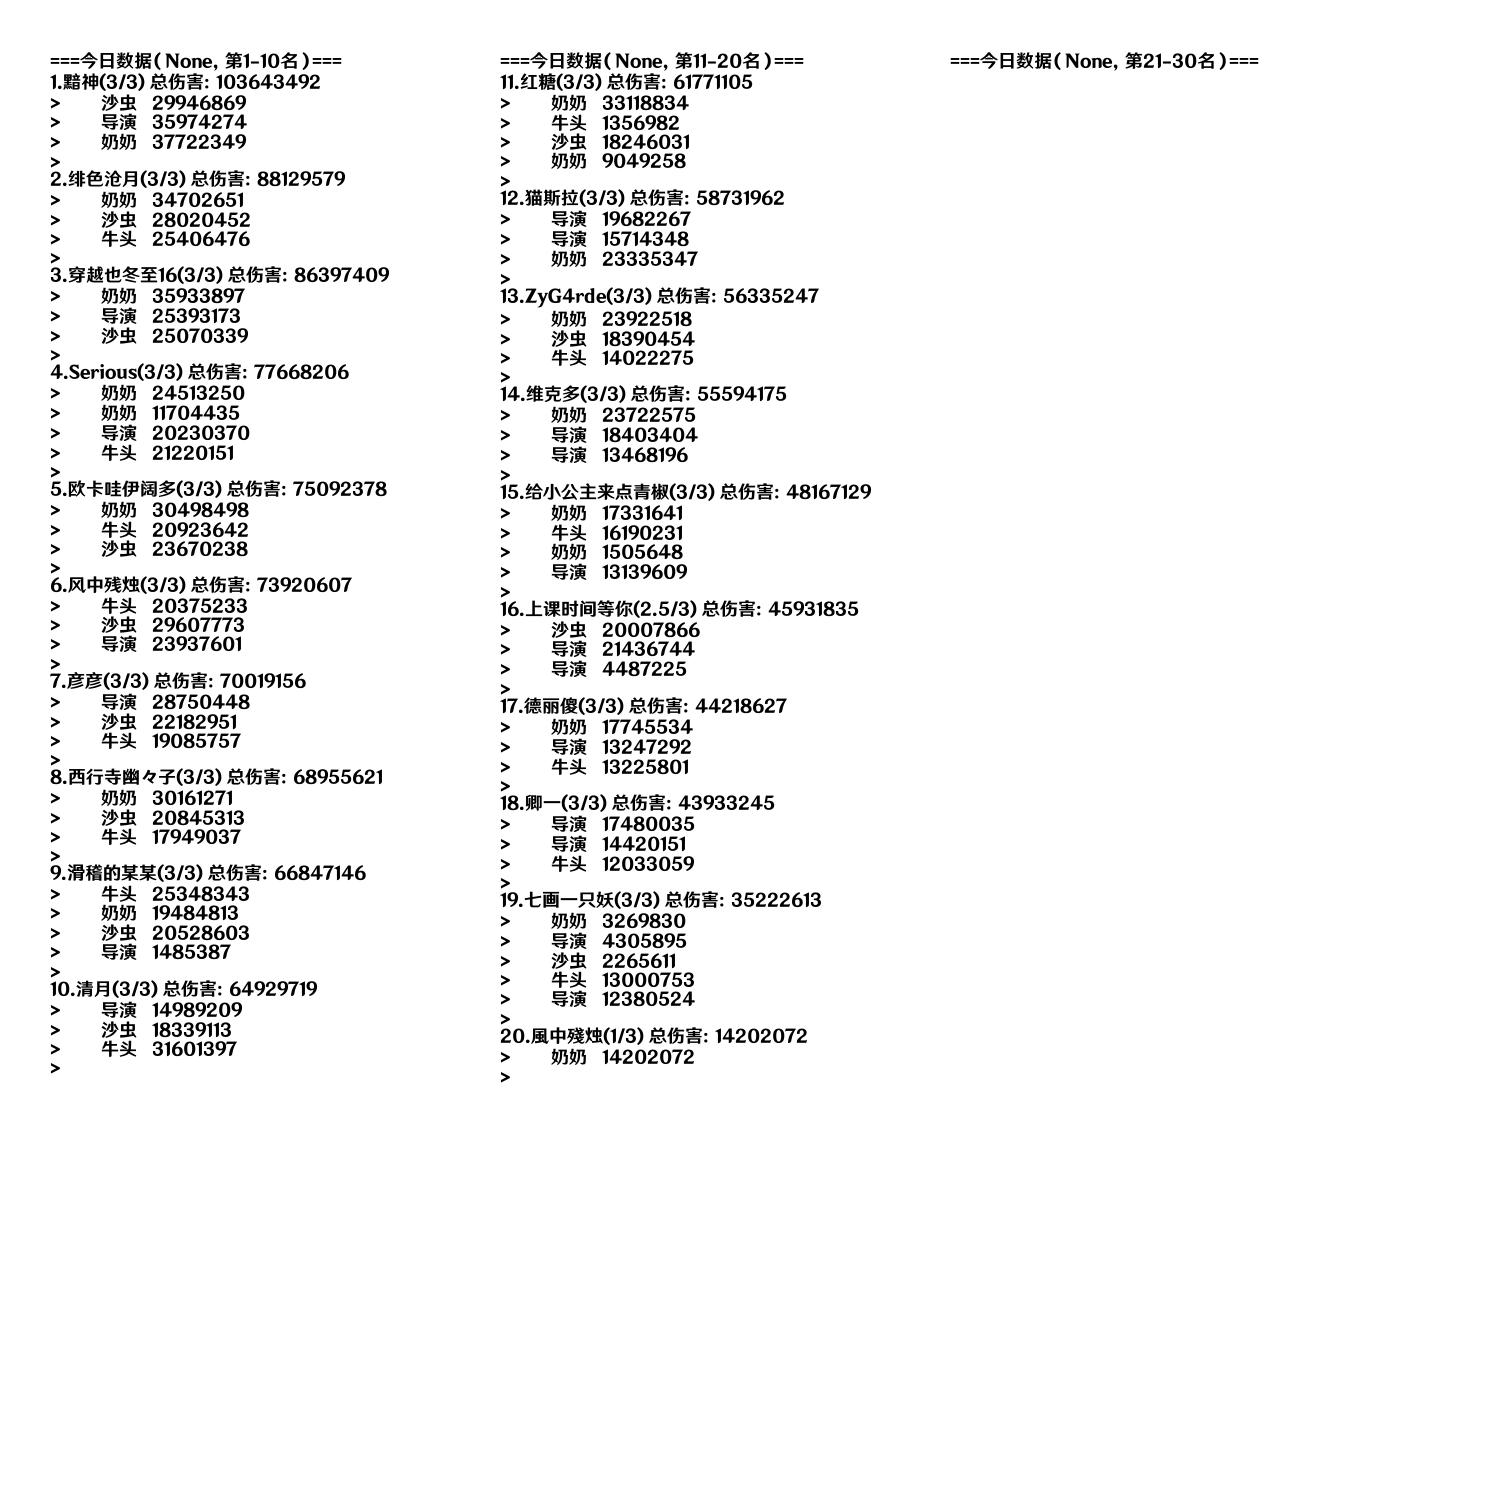
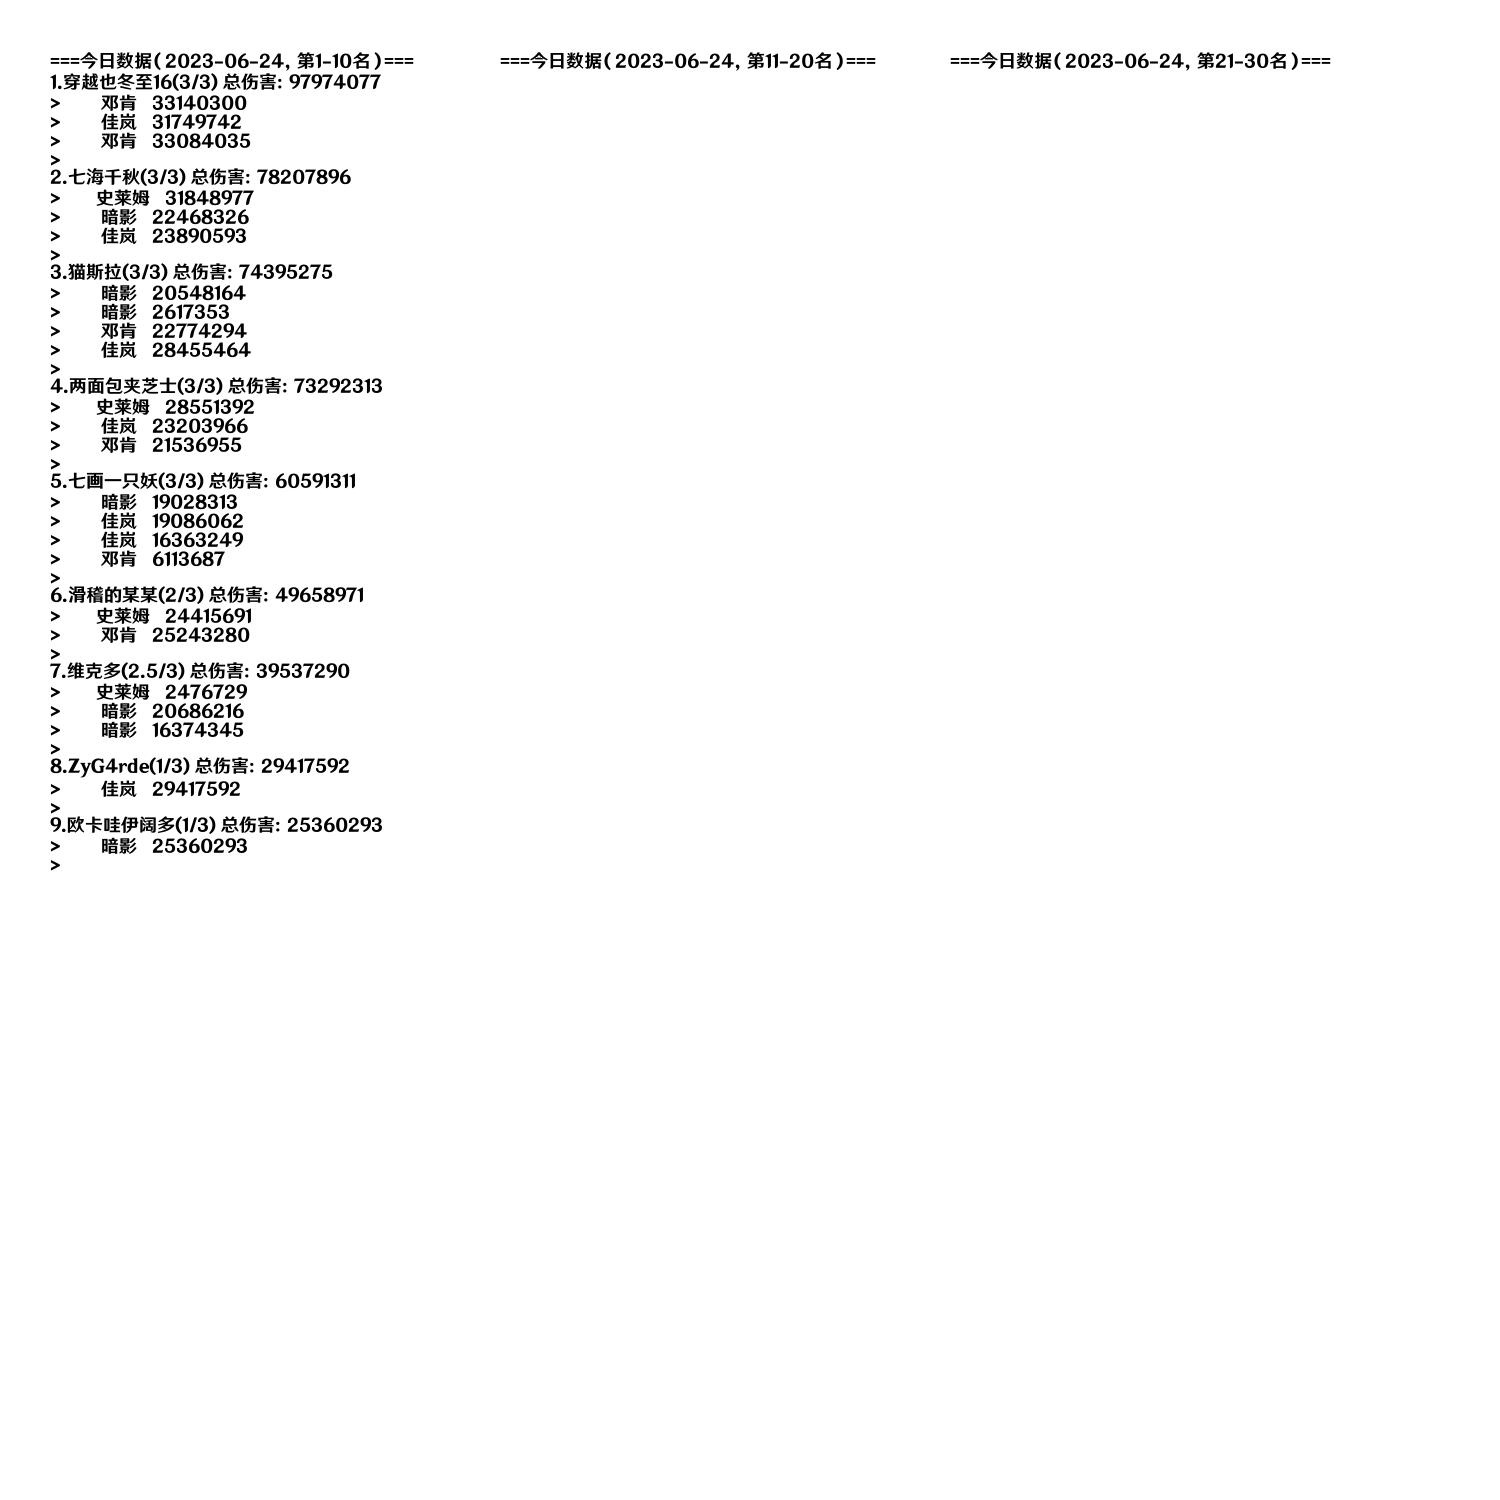
会战工具更新

Changed region(s): [[0.0307, 0.0307, 0.276, 0.7053], [0.3373, 0.0307, 0.5827, 0.7053], [0.7053, 0.0307, 0.8587, 0.0613]]

diff --git a/Twip/function/kgqgj/payload/cookies.py b/Twip/function/kgqgj/payload/cookies.py
@@ -1,9 +1,9 @@
 '''
 Author: 七画一只妖 1157529280@qq.com
-Date: 2023-04-14 23:10:52
+Date: 2023-03-27 14:47:37
 LastEditors: 七画一只妖 1157529280@qq.com
-LastEditTime: 2023-06-02 19:02:37
-FilePath: \QQbot-Twip-v2\Twip\function\kgqgj\payload\cookies.py
+LastEditTime: 2023-06-24 13:12:15
+FilePath: \060坎公骑冠剑会战工具\payload\cookies.py
 Description: 这是默认设置,请设置`customMade`, 打开koroFileHeader查看配置 进行设置: https://github.com/OBKoro1/koro1FileHeader/wiki/%E9%85%8D%E7%BD%AE
 '''
 header = {
@@ -12,7 +12,7 @@ header = {
     "accept-language": f"zh-CN,zh;q=0.9,en;q=0.8,en-GB;q=0.7,en-US;q=0.6",
     "cache-control": "no-cache",
     "connection": f"keep-alive",
-    "cookie": f"buvid3=57D7B9AB-6CEF-0EE8-042E-475E2AEEFA3876955infoc; i-wanna-go-back=-1; _uuid=8D1042742-10610C-F1035-AFA7-107CCFADDCC4C76144infoc; buvid_fp_plain=undefined; nostalgia_conf=-1; blackside_state=0; CURRENT_BLACKGAP=0; hit-dyn-v2=1; LIVE_BUVID=AUTO2916589792625841; fingerprint3=b4c05a603c8a5ae0e2ca874759862233; DedeUserID=178547325; DedeUserID__ckMd5=d90ee02c8bad0cdd; b_ut=5; b_nut=100; buvid4=23F4DCF0-243F-05CD-0C32-458841A6D0A778370-022071818-OsDwyx78W%2ByrNhIDcatWKA%3D%3D; rpdid=|(m~Y|~~|~l0J'uYY)l~uu)l; is-2022-channel=1; CURRENT_FNVAL=4048; header_theme_version=CLOSE; hit-new-style-dyn=1; dy_spec_agreed=1; CURRENT_PID=0507da70-c954-11ed-b885-5544c605f9c2; FEED_LIVE_VERSION=V8; home_feed_column=5; fingerprint=00557b7daceeed7b923dbd4d44060804; SESSDATA=594d0328%2C1701091572%2Cf903b%2A51; bili_jct=956eae9d916c52548d1a3cdefc849df0; session-api=hi4qqpl58vckvb2sobrrqncj1n; user-info=5287646; browser_resolution=1536-754; PVID=1; CURRENT_QUALITY=64; bp_video_offset_178547325=802549763506438100; _csrf=RlGP1rt6DsCwDNBbBVvwjS8g; share_source_origin=QQ; bsource=share_source_qqchat; b_lsid=3F51AAE1_1887BB8767A; sid=75soz2hu; buvid_fp=00557b7daceeed7b923dbd4d44060804",}
+    "cookie": f"buvid3=57D7B9AB-6CEF-0EE8-042E-475E2AEEFA3876955infoc; i-wanna-go-back=-1; _uuid=8D1042742-10610C-F1035-AFA7-107CCFADDCC4C76144infoc; buvid_fp_plain=undefined; nostalgia_conf=-1; CURRENT_BLACKGAP=0; blackside_state=0; hit-dyn-v2=1; LIVE_BUVID=AUTO2916589792625841; fingerprint3=b4c05a603c8a5ae0e2ca874759862233; DedeUserID=178547325; DedeUserID__ckMd5=d90ee02c8bad0cdd; b_ut=5; b_nut=100; buvid4=23F4DCF0-243F-05CD-0C32-458841A6D0A778370-022071818-OsDwyx78W%2ByrNhIDcatWKA%3D%3D; rpdid=|(m~Y|~~|~l0J'uYY)l~uu)l; is-2022-channel=1; CURRENT_FNVAL=4048; header_theme_version=CLOSE; hit-new-style-dyn=1; dy_spec_agreed=1; CURRENT_PID=0507da70-c954-11ed-b885-5544c605f9c2; home_feed_column=5; browser_resolution=1536-754; FEED_LIVE_VERSION=V8; CURRENT_QUALITY=80; fingerprint=4395a1da923c2235156efb5c4acfb921; PVID=1; SESSDATA=2701386e%2C1703082012%2C68daa%2A61BDRDe0QFQqQBxSlvcz-MaXFvjFiVYXgLgDtmTAEL6K-C-1O1sa62wM0SNXOwWoKphHEVRQAAGQA; bili_jct=658b7477ccff82d1d6b0ba286fb70e4c; buvid_fp=4395a1da923c2235156efb5c4acfb921; bp_video_offset_178547325=810620106098868400; _dfcaptcha=eabf756761077a64fcc8d506c3bdc91c",}
 
 
 header2 = {
@@ -22,3 +22,6 @@ header2 = {
     "connection": "keep-alive",
     "cookie": f"""buvid3=57D7B9AB-6CEF-0EE8-042E-475E2AEEFA3876955infoc; i-wanna-go-back=-1; _uuid=8D1042742-10610C-F1035-AFA7-107CCFADDCC4C76144infoc; buvid_fp_plain=undefined; nostalgia_conf=-1; blackside_state=0; CURRENT_BLACKGAP=0; hit-dyn-v2=1; LIVE_BUVID=AUTO2916589792625841; fingerprint3=b4c05a603c8a5ae0e2ca874759862233; DedeUserID=178547325; DedeUserID__ckMd5=d90ee02c8bad0cdd; b_ut=5; b_nut=100; buvid4=23F4DCF0-243F-05CD-0C32-458841A6D0A778370-022071818-OsDwyx78W%2ByrNhIDcatWKA%3D%3D; rpdid=|(m~Y|~~|~l0J'uYY)l~uu)l; is-2022-channel=1; CURRENT_FNVAL=4048; header_theme_version=CLOSE; hit-new-style-dyn=1; dy_spec_agreed=1; CURRENT_PID=0507da70-c954-11ed-b885-5544c605f9c2; FEED_LIVE_VERSION=V8; home_feed_column=5; fingerprint=00557b7daceeed7b923dbd4d44060804; SESSDATA=594d0328%2C1701091572%2Cf903b%2A51; bili_jct=956eae9d916c52548d1a3cdefc849df0; session-api=hi4qqpl58vckvb2sobrrqncj1n; user-info=5287646; browser_resolution=1536-754; PVID=1; CURRENT_QUALITY=64; bp_video_offset_178547325=802549763506438100; _csrf=RlGP1rt6DsCwDNBbBVvwjS8g; share_source_origin=QQ; bsource=share_source_qqchat; b_lsid=3F51AAE1_1887BB8767A; sid=75soz2hu; buvid_fp=00557b7daceeed7b923dbd4d44060804""",
 }
+
+
+APP_KEY = "a5e793dd8b8e425c9bff92ed79e4458f"

diff --git a/Twip/function/kgqgj/payload/function.py b/Twip/function/kgqgj/payload/function.py
@@ -2,7 +2,7 @@
 Author: 七画一只妖 1157529280@qq.com
 Date: 2023-03-27 09:05:56
 LastEditors: 七画一只妖 1157529280@qq.com
-LastEditTime: 2023-04-21 17:15:21
+LastEditTime: 2023-06-24 13:10:01
 FilePath: \060坎公骑冠剑会战工具\function.py
 Description: 这是默认设置,请设置`customMade`, 打开koroFileHeader查看配置 进行设置: https://github.com/OBKoro1/koro1FileHeader/wiki/%E9%85%8D%E7%BD%AE
 '''
@@ -12,16 +12,20 @@ import requests
 import httpx
 
 from .setting import DAMAGE_URL, RATE_URL, DAO_IMAGE, DAO_DAILY, DAMAGE_TOTAL
-from .cookies import header, header2
+from .cookies import header, header2, APP_KEY
 from .utils.data_utils import save_data
 
 BASE_PATH: str = Path(__file__).absolute().parents[0]
 
 
 async def f_get_user_data(date:str) -> dict:
+
+    url = f"""
+https://api.game.bilibili.com/game/player/tools/kan_gong/fight_report?ts=1687582295973&nonce=f1e7b034-d50e-40fe-af1f-00af9fc212f2&appkey={APP_KEY}&sign=e3bca73d6c554cdb51a9ed05e5431497"""
+
     try:
         async with httpx.AsyncClient(timeout=None) as client:
-            r = await client.get(url=DAMAGE_URL + date, headers=header)
+            r = await client.get(url=url + date, headers=header)
             re_data: dict = r.json()
             save_data(f"{BASE_PATH}\\data\\user_data.json", re_data)
             data = re_data["data"]
@@ -33,12 +37,15 @@ async def f_get_user_data(date:str) -> dict:
 
 
 async def f_get_damage_data(date:str):
+    url = f"""https://api.game.bilibili.com/game/player/tools/kan_gong/fight_report?ts=1687582295973&nonce=f1e7b034-d50e-40fe-af1f-00af9fc212f2&appkey={APP_KEY}&sign=e3bca73d6c554cdb51a9ed05e5431497"""
+
+    url2 = f"""https://api.game.bilibili.com/game/player/tools/kan_gong/fight_report?date={date}&ts=1687582528332&nonce=c05a9707-f5ee-42fc-87b5-3e4db005fb70&appkey={APP_KEY}&sign=7664f1d3cdb1316bcf123e3894efeee2"""
     try:
         async with httpx.AsyncClient(timeout=None) as client:
             if date:
-                r = await client.get(url=DAMAGE_URL + date, headers=header)
+                r = await client.get(url=url2, headers=header)
             else:
-                r = await client.get(url=DAMAGE_URL, headers=header)
+                r = await client.get(url=url, headers=header)
             re_data: dict = r.json()
             save_data(f"{BASE_PATH}\\data\\damage_data.json", re_data)
             data = re_data["data"]
@@ -50,9 +57,10 @@ async def f_get_damage_data(date:str):
 
 
 async def f_get_rate_data():
+    url = f"""https://api.game.bilibili.com/game/player/tools/kan_gong/fight_news?ts=1687583171294&nonce=286263db-9437-493f-bc4f-25ec6b1326ee&appkey={APP_KEY}&sign=73bb681870500d80828ec38ebf751bbc"""
     try:
         async with httpx.AsyncClient(timeout=None) as client:
-            r = await client.get(url=RATE_URL, headers=header)
+            r = await client.get(url=url, headers=header)
             re_data: dict = r.json()
             data = re_data["data"]
             return data

diff --git a/Twip/function/kgqgj/payload/utils/data_utils.py b/Twip/function/kgqgj/payload/utils/data_utils.py
@@ -2,7 +2,7 @@
 Author: 七画一只妖 1157529280@qq.com
 Date: 2023-03-27 09:55:54
 LastEditors: 七画一只妖 1157529280@qq.com
-LastEditTime: 2023-06-02 19:01:55
+LastEditTime: 2023-06-24 13:09:44
 '''
 import json
 
@@ -18,7 +18,7 @@ def save_data(path: str, data: dict) -> None:
 
 
 def data_format(data):
-    for item in data:
+    for item in data["info"]:
         for d_item in item["damage_list"]:
             d_item["boss_name"] = _data_format(d_item["boss_name"])
     return data
@@ -26,27 +26,28 @@ def data_format(data):
 
 def _data_format(name):
     data = {
-        "恶魔首领": "恶魔",
-        "暗影魔王": "暗影",
-        "boss_harvester_guild_fury": "蚊子",
-        "boss_graboid_guild_fury": "沙虫",
-        "boss_nine_tailed_fox_guild": "佳岚",
-        "boss_robot_knight_new_guild": "大锤",
-        "boss_minister_guild": "邓肯",
-        "雪人将军盖斯特": "雪人",
-        "九尾狐佳岚": "佳岚",
-        "宰相邓肯": "邓肯",
-        "帝国骑士": "骑士",
-        "雪人将军盖斯特": "雪人",
-        "妖精": "妖精",
-        "春秋派首领": "春秋",
-        "哥布林族长": "族长",
-        "侵略军司令官": "司令",
-        "boss_mech_guild_fury_43th": "熊猫",
-        "boss_admiral_guild_43th_modified": "船长",
-        "boss_portrait_guild_43th": "画像",
-        "boss_invader_director_guild": "导演",
-        "机械人艾瑞娜": "奶奶",
-        "愤怒的牛头人": "牛头"
+        "恶魔首领":"恶魔",
+        "暗影魔王":"暗影",
+        "boss_harvester_guild_fury":"蚊子",
+        "boss_graboid_guild_fury":"沙虫",
+        "boss_nine_tailed_fox_guild":"佳岚",
+        "boss_robot_knight_new_guild":"大锤",
+        "boss_minister_guild":"邓肯",
+        "雪人将军盖斯特":"雪人",
+        "九尾狐佳岚":"佳岚",
+        "宰相邓肯":"邓肯",
+        "帝国骑士":"骑士",
+        "雪人将军盖斯特":"雪人",
+        "妖精":"妖精",
+        "春秋派首领":"春秋",
+        "哥布林族长":"族长",
+        "侵略军司令官":"司令",
+        "boss_mech_guild_fury_43th":"熊猫",
+        "boss_admiral_guild_43th_modified":"船长",
+        "boss_portrait_guild_43th":"画像",
+        "boss_invader_director_guild":"导演",
+        "机械人艾瑞娜":"奶奶",
+        "愤怒的牛头人":"牛头",
+        "熔岩史莱姆国王":"史莱姆"
     }
     return data[name]

diff --git a/Twip/function/kgqgj/payload/dao.py b/Twip/function/kgqgj/payload/dao.py
@@ -2,7 +2,7 @@
 Author: 七画一只妖 1157529280@qq.com
 Date: 2023-03-27 10:45:06
 LastEditors: 七画一只妖 1157529280@qq.com
-LastEditTime: 2023-04-21 17:15:29
+LastEditTime: 2023-06-24 13:09:52
 '''
 from PIL import Image, ImageDraw, ImageFont
 from pathlib import Path
@@ -35,11 +35,15 @@ async def get_data(date: str = None):
 
     d_data: dict = await f_get_damage_data(date)
 
+    if date == None:
+        date = datetime.datetime.now().strftime("%Y-%m-%d")
+
     # 数据整合（生成排版文字）
     text1 = f"""===今日数据（{date}，第1-10名）===\n\n"""
     text2 = f"""===今日数据（{date}，第11-20名）===\n\n"""
     text3 = f"""===今日数据（{date}，第21-30名）===\n\n"""
     d_data = data_format(d_data)
+    d_data = d_data["info"]
     for index, item in enumerate(sorted(d_data, key=lambda i: i["damage_total"], reverse=True), 1):
         fight_total = sum([1 if d_tiem["is_kill"] == 1 else 2 for d_tiem in item["damage_list"]])
         fight_total = min(fight_total, 6) * 0.5
@@ -91,6 +95,7 @@ async def get_data_total():
     total_data: dict = {}
     for date in FIGHT_LIST:
         date: dict = await f_get_damage_data(date)
+        date = date["info"]
         for item in date:
             # 先遍历有效出刀数
             fight_total = 0
@@ -185,13 +190,13 @@ async def get_rate():
 
     # 数据转换
     data: list = []
-    for item in resp_data["boss"][-4:]:
-        data_item = [str(item["name"]),
+    for item in resp_data["boss_info"][-4:]:
+        data_item = [str(item["boss_name"]),
                      str(item["level"]),
                      item["elemental_type_cn"],
-                     str(item["total_hp"]),
-                     str(item["remain_hp"]),
-                     _percentage(item["remain_hp"],item["total_hp"])]
+                     str(item["boss_hp"]),
+                     str(item["boss_remain_hp"]),
+                     _percentage(item["boss_remain_hp"],item["boss_hp"])]
         data.append(data_item)
 
     # Define column widths

diff --git a/Twip/function/kgqgj/payload/setting.py b/Twip/function/kgqgj/payload/setting.py
@@ -2,7 +2,7 @@
 Author: 七画一只妖 1157529280@qq.com
 Date: 2023-03-27 09:43:07
 LastEditors: 七画一只妖 1157529280@qq.com
-LastEditTime: 2023-06-02 18:58:02
+LastEditTime: 2023-06-24 13:10:12
 '''
 
 
@@ -25,18 +25,18 @@ DAO_DAILY = f"""https://ww2.ren/?webtype=mmqch&oty=newcode_tx&oty2=jpg_ghdamage3
 DAMAGE_TOTAL = f"""https://ww2.ren/?webtype=mmqch&oty=newcode_tx&oty2=jpg_ghzongdamage_xi&qi=195421679838539&rd=89181165"""
 
 # 会战日期（14天）
-FIGHT_LIST = ["2023-06-02",
-              "2023-06-03",
-              "2023-06-04",
-              "2023-06-05",
-              "2023-06-06",
-              "2023-06-07",
-              "2023-06-08",
-              "2023-06-09",
-              "2023-06-10",
-              "2023-06-11",
-              "2023-06-12",
-              "2023-06-13",
-              "2023-06-14",
-              "2023-06-15",
+FIGHT_LIST = ["2023-06-23",
+              "2023-06-24",
+              "2023-06-25",
+              "2023-06-26",
+              "2023-06-27",
+              "2023-06-28",
+              "2023-06-29",
+              "2023-06-30",
+              "2023-07-01",
+              "2023-07-02",
+              "2023-07-03",
+              "2023-07-04",
+              "2023-07-05",
+              "2023-07-06",
               ]
